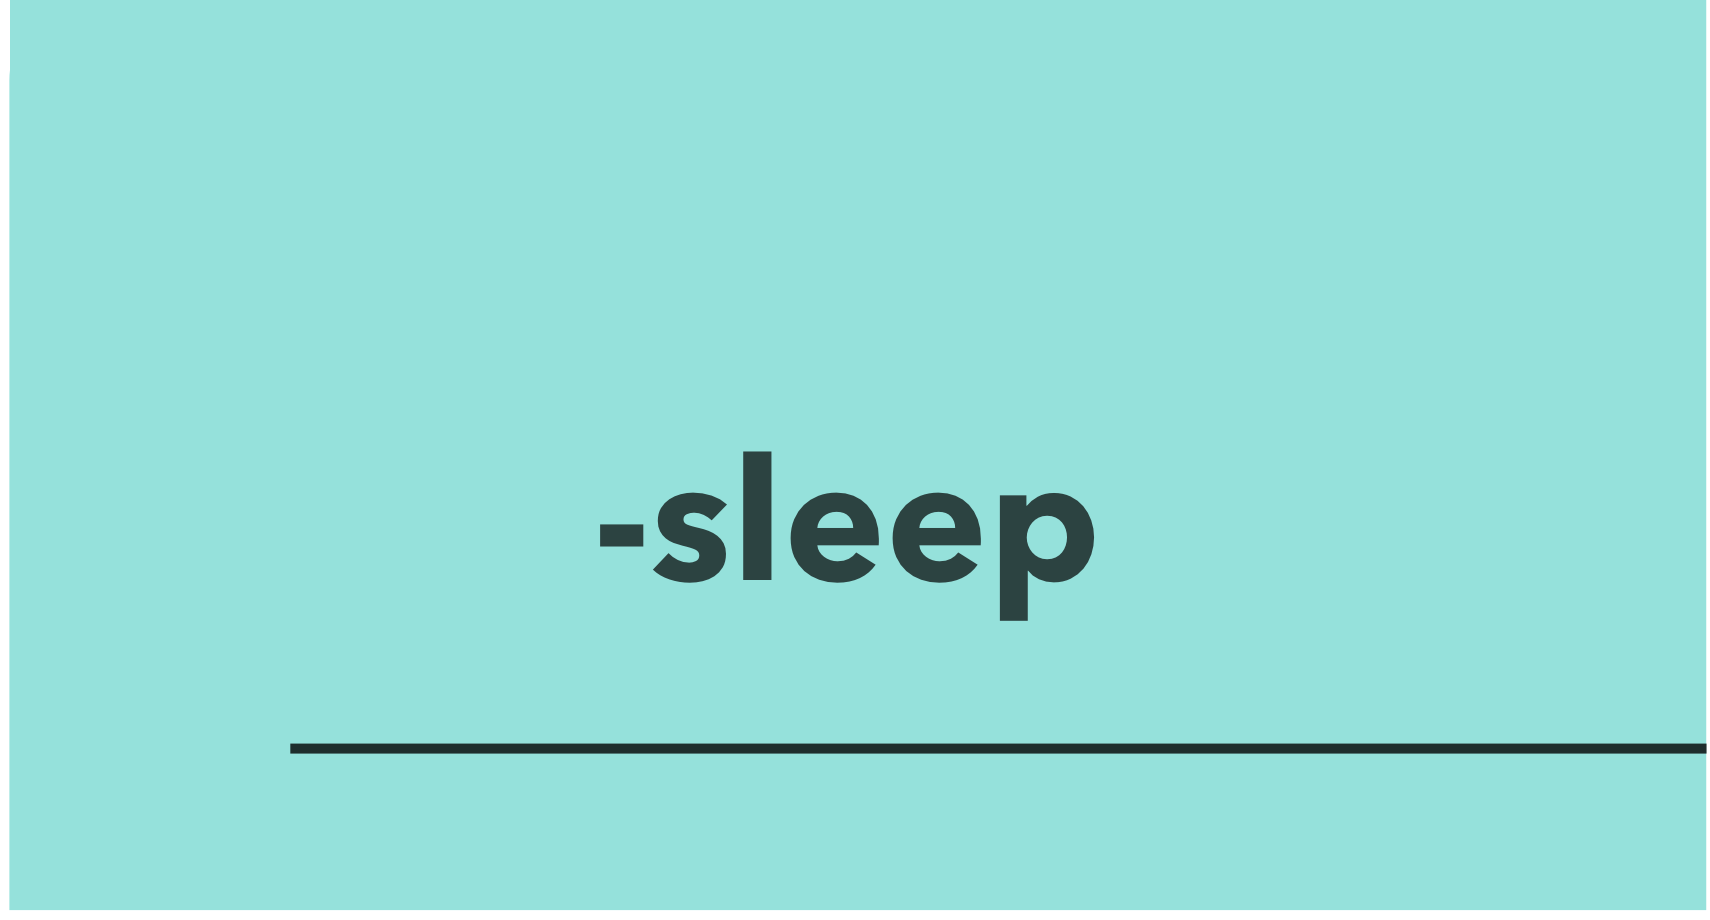
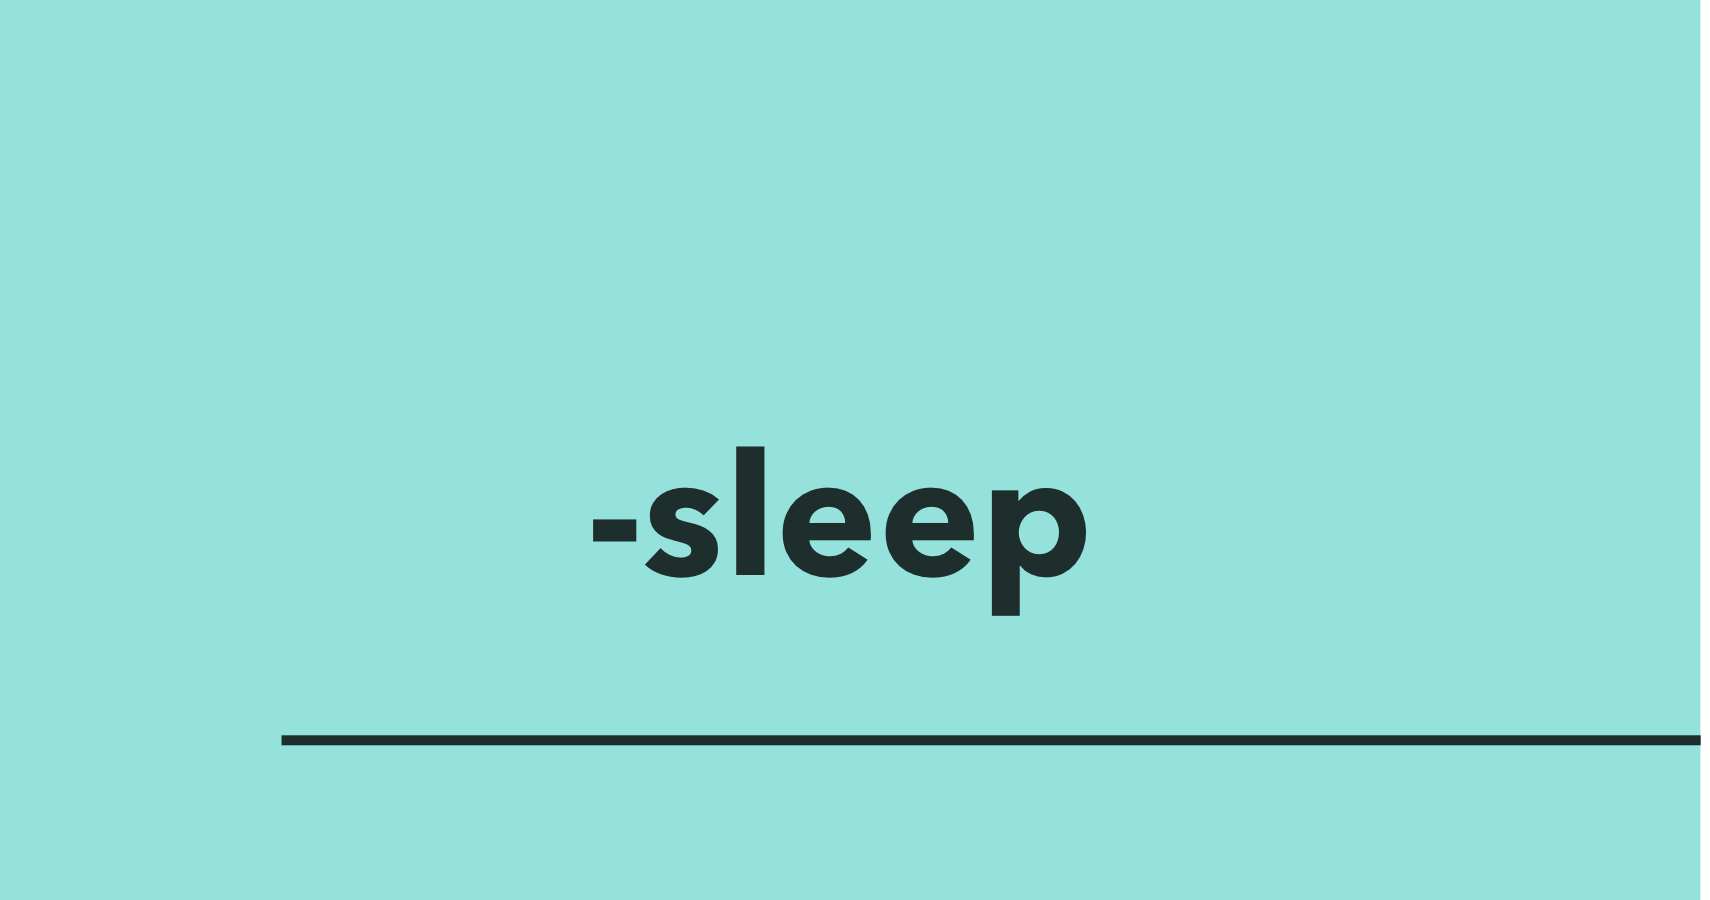
done with ui

Changed region(s): [[0.0, 0.0, 1.0, 1.0], [0.3409, 0.4667, 0.6509, 0.6844]]

diff --git a/js/script.js b/js/script.js
@@ -5,7 +5,18 @@ const applescript = require('applescript')
 const sleepBtn = document.getElementById("sleepBtn")
 const quitallBtn = document.getElementById("quitallBtn")
 const shutdownBtn = document.getElementById("shutdownBtn")
-var timerContainer = document.getElementById("timerContainer")
+const timerContainer = document.getElementById("timerContainer")
+const hour = document.getElementById("hour");
+const minute = document.getElementById("minute");
+const hourSlider = document.getElementById("hourSlider");
+const minuteSlider = document.getElementById("minuteSlider");
+const sleepBtnNormalURL= "url('assests/sleepBtnNormal.png')" 
+const sleepBtnPressedURL = "url('assests/sleepBtnPressed.png')" 
+const quitallBtnNormalURL = "url('assests/quitallBtnNormal.png')" 
+const quitallBtnPressedURL = "url('assests/quitallBtnPressed.png')" 
+const shutdownBtnNormalURL = "url('assests/shutdownBtnNormal.png')" 
+const shutdownBtnPressedURL = "url('assests/shutdownBtnPressed.png')" 
+
 const quitallScript = `
 tell application "System Events"
     set selectedProcesses to (name of every process where background only is false)
@@ -40,18 +51,21 @@ tell application "Safari" to quit
 var bgColor = "#95E1DB"
 var script = sleepScript
 var doCloseSafariTabs = false
+var selectedBtn = sleepBtn
 
 function btnPressed(senderBtnId){
   var btn = document.getElementById(senderBtnId)
+  selectedBtn = btn
+
   setTimerInfo(btn)
+  toggleBtnAppearances(selectedBtn)
   timerContainer.style.backgroundColor = bgColor;
-  if(doCloseSafariTabs == true){
-    executeAppleScript(closeSafariTabsScript)
-  }
-  executeAppleScript(script)
+  // if(doCloseSafariTabs == true){
+  //   executeAppleScript(closeSafariTabsScript)
+  // }
+  // executeAppleScript(script)
 
 }
-
 function setTimerInfo(btn){
   if(btn == sleepBtn){
     bgColor = "#95E1DB"
@@ -77,4 +91,48 @@ function executeAppleScript(script){
       });
     }
   });
+}
+hourSlider.oninput = function(){
+  if (this.value == "0") {
+    hour.innerHTML = "00"
+  }else {
+    if(this.value<10){
+      hour.innerHTML = "0"+ this.value
+    }else{
+      hour.innerHTML = this.value
+    }
+  }
+}
+minuteSlider.oninput = function(){
+  if (this.value == "0") {
+    minute.innerHTML = "00"
+  }else {
+    if(this.value<10){
+      minute.innerHTML = "0"+ this.value
+    }else{
+      minute.innerHTML = this.value
+    }
+  }
+}
+function disableSliders(){
+  hourSlider.disable = true
+  minuteSlider.disable = true
+}
+
+function toggleBtnAppearances(selectedBtn){
+  if(selectedBtn == sleepBtn){
+    selectedBtn.style.backgroundImage= sleepBtnPressedURL
+    quitallBtn.style.backgroundImage = quitallBtnNormalURL
+    shutdownBtn.style.backgroundImage = shutdownBtnNormalURL
+  }
+  if(selectedBtn == quitallBtn){
+    selectedBtn.style.backgroundImage= quitallBtnPressedURL
+    sleepBtn.style.backgroundImage = sleepBtnNormalURL
+    shutdownBtn.style.backgroundImage = shutdownBtnNormalURL
+  }
+  if(selectedBtn == shutdownBtn){
+    selectedBtn.style.backgroundImage= shutdownBtnPressedURL
+    sleepBtn.style.backgroundImage = sleepBtnNormalURL
+    quitallBtn.style.backgroundImage = quitallBtnNormalURL
+  }
 }

diff --git a/css/style.css b/css/style.css
@@ -1,14 +1,20 @@
 body, html {
   margin: 0px;
   padding: 0px;
-}
+  font-family: -apple-system, BlinkMacSystemFont, 'Segoe UI', Roboto, Oxygen, Ubuntu, Cantarell, 'Open Sans', 'Helvetica Neue', sans-serif;
 
+}
+text{
+  opacity: 0.7;
+  -webkit-text-fill-color: rgba(0, 0, 0, 0.7)
+
+}
 #dragBar{
   position: fixed;
   background-color: aqua;
   opacity: 0;
   width: 100%;
-  height: 20px;
+  height: 25px;
   -webkit-app-region: drag; 
   -webkit-user-drag: auto;
 }
@@ -41,40 +47,90 @@ button{
   border: none;
   outline: none;
   background-color: rgba(0, 0, 0, 0);
-  background-size: 150px 90px;
-  background-size:contain;
+  background-size: 152px 90px;
+  /* background-size:contain; */
 
 
 }
 #sleepBtn{
-  background-image: url("../assests/sleepBtnNormal.png");
-  /* grid-row: 1/2; */
+  background-image: url("../assests/sleepBtnPressed.png");
 
 }
-#sleepBtn:hover{
-  background-image: url("../assests/sleepBtnHover.png");
-  /* background-color:#95E1DB; */
-}
+
 #quitallBtn{
   background-image: url("../assests/quitallBtnNormal.png");
-  /* grid-row: 2/3; */
 }
-#quitallBtn:hover{
-  background-image: url("../assests/quitallBtnHover.png");
-  /* background-color: #F2DC26; */
-  -webkit-backface-visibility: hidden
-}
+
 #shutdownBtn{
   background-image: url("../assests/shutdownBtnNormal.png");
-  /* grid-row: 3/4; */
 }
-#shutdownBtn:hover{
-  background-image: url("../assests/shutdownBtnHover.png");
-  /* background-color: #DB817E; */
+
+#sleepBtnTest{
+  background-image: url("../assests/sleepBtnPressed.png");
 }
 #timerContainer{
   background-color: #95E1DB;
   grid-column: 2/4;
   grid-row: 1/4;
+  display: grid;
+  grid-template-rows: 2fr 1fr;
   /* opacity: 1; */
+}
+
+#valueContainer{
+  text-shadow: 1px 1px 20px rgb(0, 0, 0, 0.3);
+  font-family: -apple-system, BlinkMacSystemFont, 'Segoe UI', Roboto, Oxygen, Ubuntu, Cantarell, 'Open Sans', 'Helvetica Neue', sans-serif;
+  font-size: 60px;
+  opacity: 0.7;
+  margin: auto;
+  display: grid;
+  grid-template-columns: 4fr 1fr 4fr 1fr 4fr;
+}
+#sliderGroup{
+  font-size: 18px;
+  align-content: center;
+  padding: auto;
+  /* background-color: bisque; */
+  display: grid;
+  grid-gap: 10px;
+}
+#playBtn{
+  background-image: url("../assests/play80.png");
+  background-size: 40px 40px;
+  min-height: 40px;
+  min-width: 40px;
+}
+#playBtn:hover{
+  background-image: url("../assests/play.png");
+
+  /* background-size: 40px 40px; */
+}
+#playBtn:focus{
+  background-image: url("../assests/pause80.png");
+}
+
+.slider {
+  margin: auto;
+  margin-top: 0px;
+  width: 80%;
+  -webkit-appearance: none;
+  height: 5px;
+  border-radius: 5px;   
+  background: rgba(0, 0, 0, 1);
+  outline: none;
+  opacity: 0.7;
+  -webkit-transition: .2s;
+  transition: opacity .2s;
+}
+.slider::-webkit-slider-thumb {
+  -webkit-appearance: none;
+  appearance: none;
+  width: 18px;
+  height: 18px;
+  border-radius: 50%; 
+  background: black;
+  cursor: pointer;
+}
+.slider::-webkit-slider-runnable-track{
+  color: black
 }

diff --git a/index.html b/index.html
@@ -10,12 +10,21 @@
   <body>
     <div class="container">
       <div id="btnGroup">
-        <button type="button" id="sleepBtn" onclick="btnPressed('sleepBtn')"></button>
+        <button type="button"  id="sleepBtn" onclick="btnPressed('sleepBtn')" ></button>
         <button type="button" id="quitallBtn" onclick="btnPressed('quitallBtn')"></button>
         <button type="button" id="shutdownBtn" onclick="btnPressed('shutdownBtn')"></button>
 
       </div>
-      <div id="timerContainer"></div>
+      <div id="timerContainer" align="center"> 
+        <div id = "sliderGroup" >
+            <div id = "valueContainer">
+                <div id="hour">00</div>:<div id="minute">00</div>:<div id="second">00</div>
+            </div>
+          <div id="hourSliderGroup">h: <input type="range" min="0" max="24" value="0" class="slider" id="hourSlider"></div>
+          <div id="minuteSliderGroup">m: <input type="range" min="0" max="60" value="0" class="slider" id="minuteSlider"></div>
+        </div>
+        <div><button type ="button" id="playBtn"></button></div>
+      </div>
     
     </div>
     <div id="shadowBox"></div>
